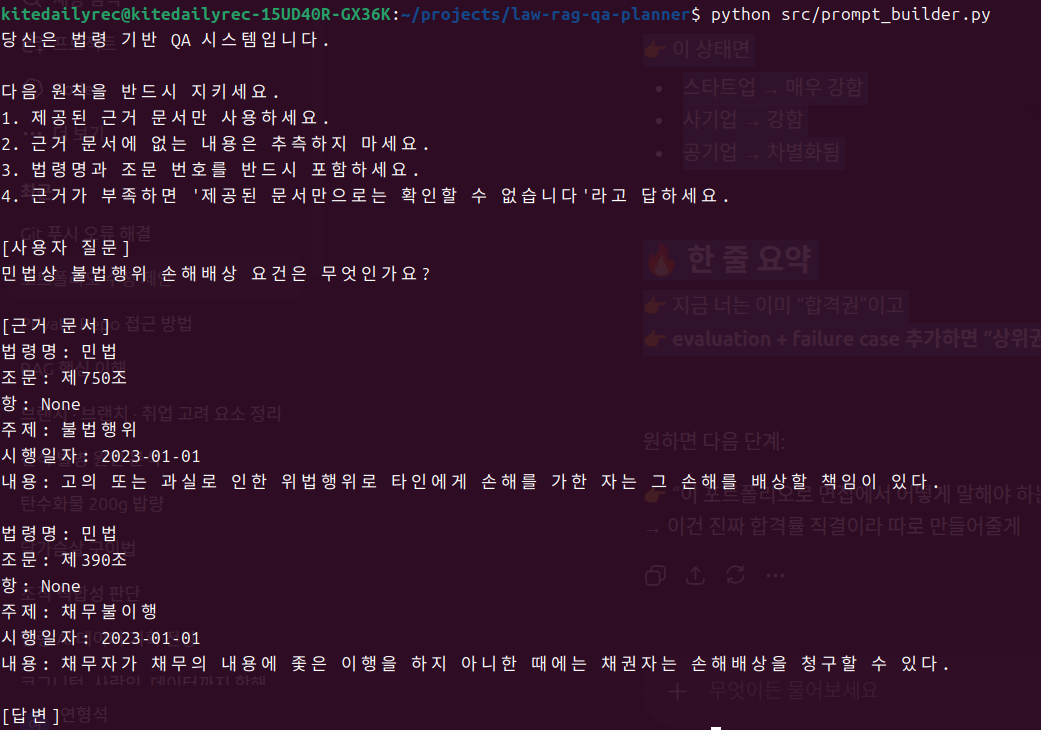
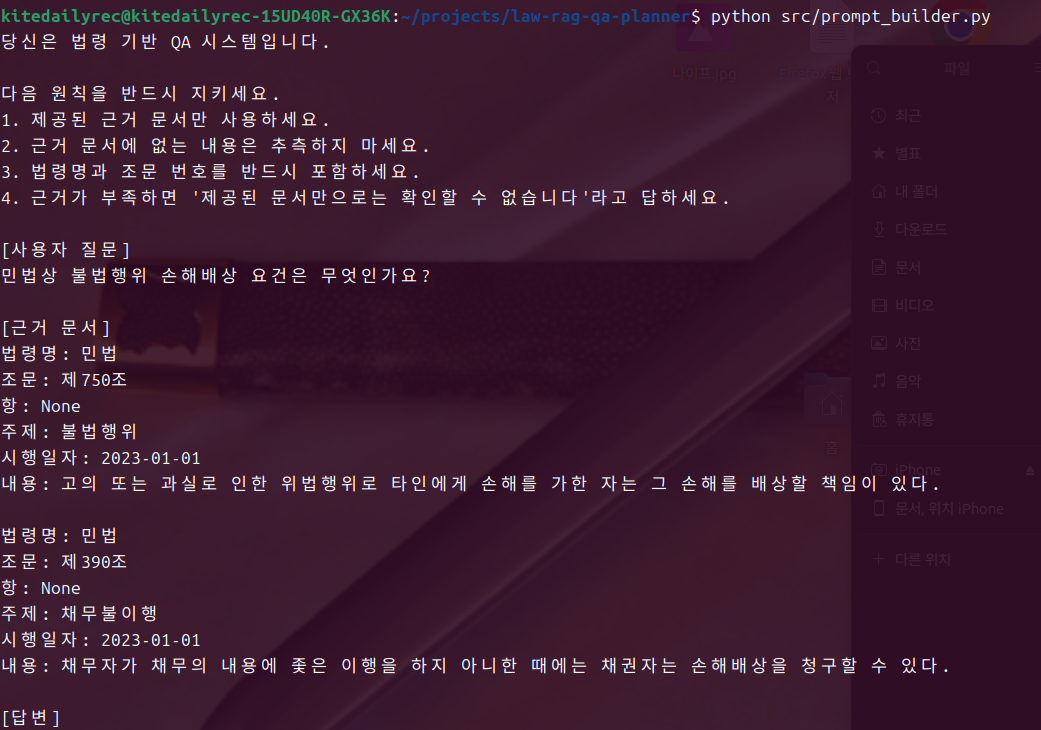
Initial law RAG QA planning project

diff --git a/src/test_queries.py b/src/test_queries.py
@@ -14,6 +14,10 @@ test_cases = [
     {
         "query": "개인정보 수집 요건은?",
         "expected": "제15조"
+    },
+    {
+        "query": "손해배상 청구 규정은?",
+        "expected": "제390조"
     }
 ]
 
@@ -33,14 +37,15 @@ def run_tests():
             case["expected"]
         )
 
-        if evaluation["retrieval_hit"]:
+        if evaluation["top1_hit"]:
             correct += 1
 
         print(evaluation)
 
     accuracy = correct / total
 
-    print(f"\nRetrieval Accuracy: {accuracy:.2f}")
+    top1_accuracy = correct / total
+    print(f"\nTop-1 Accuracy: {top1_accuracy:.2f}")
 
 if __name__ == "__main__":
     run_tests()

diff --git a/src/evaluation.py b/src/evaluation.py
@@ -4,13 +4,18 @@ def evaluate_retrieval(query, retrieved_results, expected_article_no):
         for result in retrieved_results
     ]
 
-    hit = expected_article_no in retrieved_articles
+    top1_article = retrieved_articles[0] if retrieved_articles else None
+
+    hit_at_k = expected_article_no in retrieved_articles
+    top1_hit = top1_article == expected_article_no
 
     return {
         "query": query,
         "expected_article_no": expected_article_no,
         "retrieved_articles": retrieved_articles,
-        "retrieval_hit": hit
+        "top1_article": top1_article,
+        "hit_at_k": hit_at_k,
+        "top1_hit": top1_hit
     }
 
 

diff --git a/README.md b/README.md
@@ -81,29 +81,94 @@ python src/evaluation.py
 
 ## 11. Evaluation 결과
 
-간단한 테스트셋 기준 retrieval accuracy:
+샘플 데이터 기반 테스트 결과:
 
-- Accuracy: 1.00 (3/3)
+- Retrieval Accuracy: 1.00 (3/3)
+![architecture](./images/accuracy_test1.png)
+※ 단, 본 결과는 제한된 샘플 데이터 기준이며, 실제 서비스에서는 더 다양한 질의와 대규모 데이터셋 기반 평가가 필요할 것으로 보임.
 
-본 시스템은 metadata + keyword 기반 retrieval로도 높은 정확도를 보였으며,
-향후 vector search 및 reranking 적용 시 성능 향상이 기대됩니다.
 
-## 12. Failure Case 분석
+## 12. Failure Case Analysis
 
-다음과 같은 경우 retrieval 실패 가능성이 존재한다:
+본 프로젝트에서는 단순히 정답을 맞추는 것이 아니라, retrieval 단계에서 발생할 수 있는 failure case를 재현하고 그 원인과 개선 방향을 분석하였다.
 
-1. 법령명이 명시되지 않은 질문
-2. 유사 키워드가 많은 조문 (예: 손해배상)
-3. 최신 개정 반영 부족
+---
 
-### 해결 전략
+### Failure Case 1: 법령명 누락 (Missing Law Name)
 
-- metadata 필터 강화
-- semantic search 도입
-- reranking 추가
+**Query**
+
+손해배상 책임 요건은 무엇인가?
+
+I. 실험결과
+
+해당 질의에 대한 retrieval 결과:
+
+Top results: 제750조, 제390조
+Hit@K 기준에서는 정답 포함 (Hit)
+그러나 복수의 후보 조문이 함께 검색됨
+![architecture](./images/accuracy_test2.png)
+
+II. 문제 원인
+
+질의에 법령명(민법)이 명시되지 않음
+"손해배상" 키워드는 불법행위(제750조)와 채무불이행(제390조) 모두에서 사용됨
+keyword 기반 retrieval만으로는 법적 맥락(disambiguation)을 구분하기 어려움
+
+III. 의미
+
+Hit@K 기준에서는 성능이 높게 측정될 수 있으나,
+실제 서비스에서는 Top-1 정확도 저하 및 잘못된 조문 선택 가능성 존재
+
+IV. 개선방향
+
+query intent 분석을 통한 법령명 및 주제 추론
+semantic search 도입 (embedding 기반 의미 유사도 활용)
+query expansion 적용
+(예: "손해배상" → "불법행위 손해배상")
+reranking 단계에서 법적 맥락 반영
+
+### Failure Case 2: 유사 키워드 충돌
+
+Query:
+손해배상 청구 규정은?
+
+Expected:
+민법 제390조
+
+![architecture](./images/accuracy_test3.png)
+
+I. 실험 결과
+keyword 기반 retrieval에서는 "손해배상" 키워드가 포함된 민법 제750조가 Top-1으로 선택되었다.
+
+II. 문제 원인
+민법 제750조와 제390조는 모두 "손해배상"과 관련되지만,
+제750조는 불법행위 책임, 제390조는 채무불이행 책임에 관한 조문이다.
+단순 keyword matching은 "청구"라는 법적 맥락을 충분히 반영하지 못한다.
+
+III. 의미
+Hit@K 기준에서는 정답 조문이 포함될 수 있지만,
+Top-1 기준에서는 잘못된 조문이 선택될 수 있다.
 
 
 ## 13. 간단실행 결과
 ![architecture](./images/demo_output1.png)
+
+
+## 14. Retrieval Evaluation (Sample)
+
+본 프로젝트에서는 retrieval accuracy를 평가하기 위해 테스트 쿼리셋을 구성하고,
+expected article 기준으로 hit 여부를 측정하는 구조를 설계했습니다.
+
+### Sample Test Cases
+
+| Query | Expected Article | Hit 여부 |
+|------|----------------|----------|
+| 민법상 불법행위 손해배상 요건은? | 제750조 | Hit |
+| 채무불이행 손해배상 규정은? | 제390조 | Hit |
+| 개인정보 수집 요건은? | 제15조 | Hit |
+
+※ 본 결과는 샘플 데이터 기반 테스트이며,
+실제 서비스에서는 더 큰 데이터셋과 다양한 질의에 대한 평가가 필요합니다.
 
 
